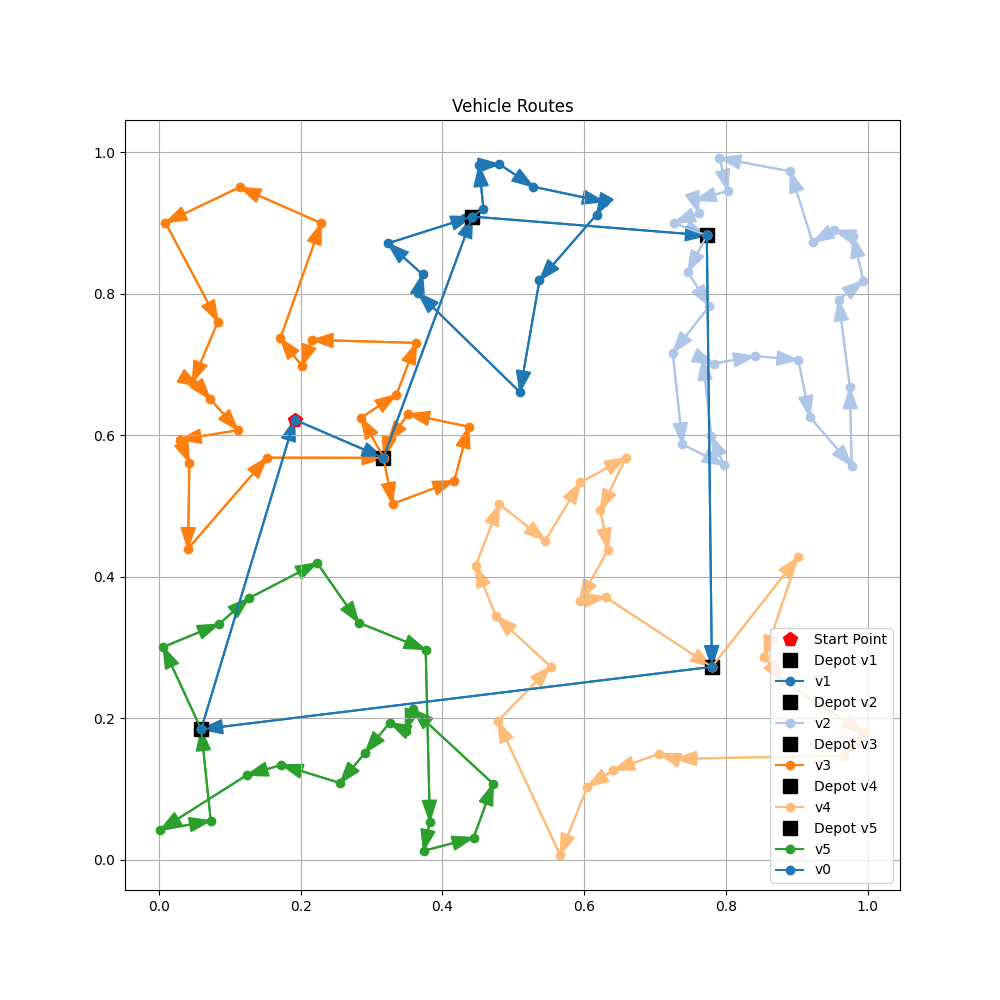
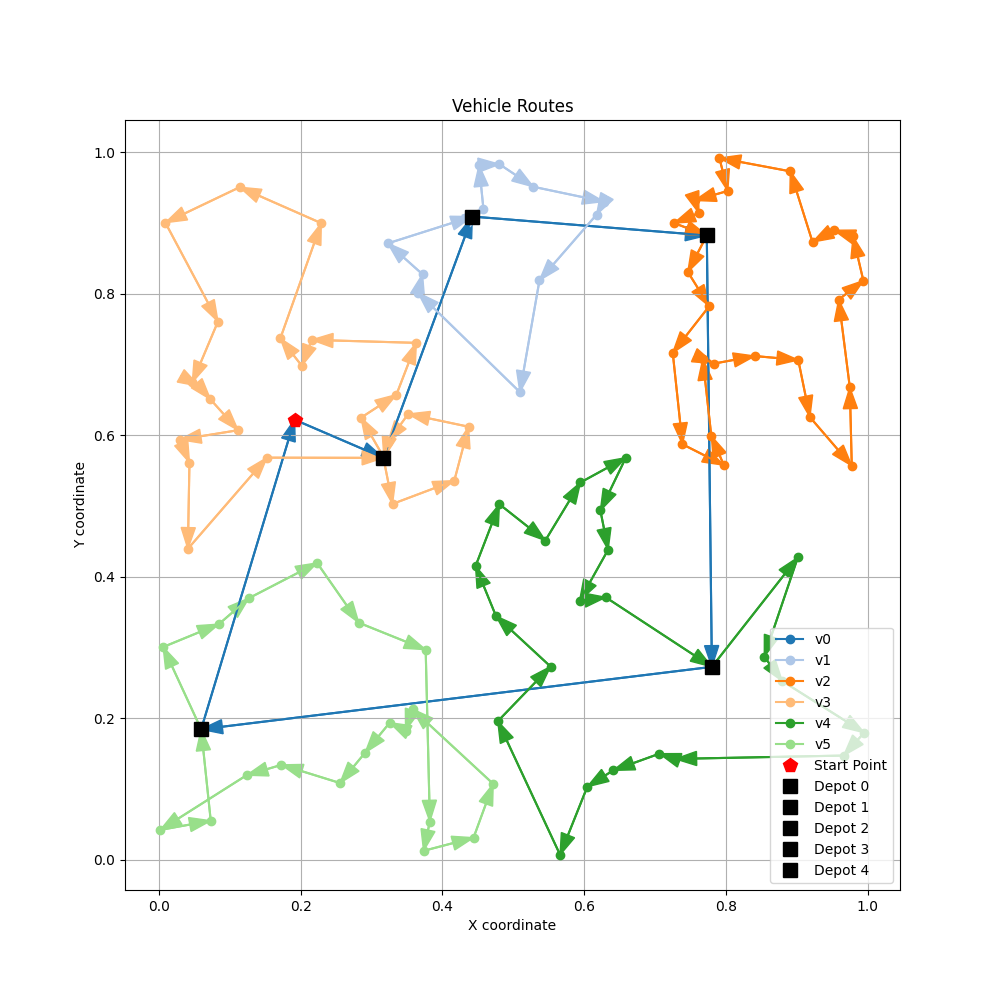
add one settings demo

diff --git a/scripts/demo.py b/scripts/demo.py
@@ -1,0 +1,154 @@
+# import debugpy; debugpy.connect(('10.1.114.56', 5678))
+
+import numpy as np
+from config import *
+from method import (
+    kmeans, 
+    euclidean_distance, 
+    TSPMethod,
+    solve
+)
+
+method = TSPMethod.SIMULATED_ANNEALING
+
+# generate random data
+np.random.seed(1234)
+dataset_size = 10000
+tsp_size = 300
+data = np.random.uniform(size=(dataset_size, tsp_size, 2)).astype(np.float32)
+
+loc = data[0]
+loc = loc[:n] # we only consider the first n nodes
+
+# for UAVs
+poi_idxs = np.array(C)
+bus_stops_idxs = np.array(D)
+
+# get each poi centroid for UAVs
+poi_locs = loc[poi_idxs]
+centroids_uav, code_poi = kmeans(poi_locs, n_UAVs) # (n_UAVs, 2), (n_poi,)
+
+# get UAVs starting location(the nearest bus stop)
+bus_stops_locs = loc[bus_stops_idxs]
+centorid_depot_distance = euclidean_distance(centroids_uav, bus_stops_locs) # (n_UAVs, n_depots)
+uav_selected_idxs = np.argmin(centorid_depot_distance, axis=1) # (n_UAVs,)
+uav_start_idxs = bus_stops_idxs[uav_selected_idxs] # (n_UAVs,)
+
+# get n_UAVs sub dataset
+uav_poi = {}
+for i in range(n_UAVs):
+    uav_poi[uav_names[i]] = {
+        'start_idxs': uav_start_idxs[i],
+        'poi_idxs': list(poi_idxs[code_poi == i])
+    }
+
+# get UAV routes
+for i in range(n_UAVs):
+    start_idxs = uav_poi[uav_names[i]]['start_idxs']
+    poi_idxs = uav_poi[uav_names[i]]['poi_idxs']
+    locs_idxs = [start_idxs] + poi_idxs
+    locs_idxs = np.array(locs_idxs)
+    locs = loc[locs_idxs]
+    print(locs.shape)
+    dist_matrix = euclidean_distance(locs, locs)
+    route = solve(dist_matrix, method)
+    uav_poi[uav_names[i]]['route'] = list(locs_idxs[route])
+
+print(uav_poi)
+
+# get UGV routes
+# we have uav_start_idxs as bus stops
+# and n_UGVs UGV must start from S
+uav_start_locs = loc[uav_start_idxs]
+centorids_ugv, code_uav = kmeans(uav_start_locs, n_UGVs) # (n_UGVs, 2), (n_UAVs,)
+
+ugv_depot = {}
+for i in range(n_UGVs):
+    ugv_depot[ugv_names[i]] = {
+        'start_idxs': S,
+        'depot_idxs': list(uav_start_idxs[code_uav == i])
+    }
+
+# get UGV routes
+for i in range(n_UGVs):
+    start_idxs = ugv_depot[ugv_names[i]]['start_idxs']
+    depot_idxs = ugv_depot[ugv_names[i]]['depot_idxs']
+    locs_idxs = [start_idxs] + depot_idxs
+    locs_idxs = np.array(locs_idxs)
+    locs = loc[locs_idxs]
+    print(locs.shape)
+    
+    dist_matrix = euclidean_distance(locs, locs)
+    route = solve(dist_matrix, method)
+    ugv_depot[ugv_names[i]]['route'] = list(locs_idxs[route])
+
+print(ugv_depot)
+
+
+
+
+
+# plot
+import matplotlib
+import matplotlib.pyplot as plt
+plt.figure(figsize=(10, 10))
+colors = matplotlib.colormaps['tab20']
+plt.plot(loc[0][0], loc[0][1], 'rp', markersize=10, label='Start Point')
+for i in range(n_UAVs):
+    vehicle_name = uav_names[i]
+    start_idxs = uav_poi[vehicle_name]['start_idxs']
+    start_locs = loc[start_idxs]
+    route = uav_poi[uav_names[i]]['route']
+    route_locs = loc[route]
+    # Bus stops
+    plt.plot(
+        start_locs[0],
+        start_locs[1],
+        'ks', 
+        markersize=10, 
+        label=f'Depot {uav_names[i]}'
+    )
+    plt.plot(
+        route_locs[:, 0], route_locs[:, 1], 
+        marker='o', color=colors(i), 
+        label=f'{vehicle_name}'
+    )
+    for j in range(len(route_locs) - 1):
+        plt.arrow(
+            route_locs[j, 0], route_locs[j, 1],
+            route_locs[j+1, 0] - route_locs[j, 0], 
+            route_locs[j+1, 1] - route_locs[j, 1],
+            head_width=0.02, 
+            length_includes_head=True, 
+            color=colors(i)
+        )
+for i in range(n_UGVs):
+    vehicle_name = ugv_names[i]
+    start_idxs = ugv_depot[vehicle_name]['start_idxs']
+    start_locs = loc[start_idxs]
+    route = ugv_depot[vehicle_name]['route']
+    route_locs = loc[route]
+    
+    plt.plot(
+        route_locs[:, 0], route_locs[:, 1], 
+        marker='o', color=colors(i), 
+        label=f'{vehicle_name}'
+    )
+    for j in range(len(route_locs) - 1):
+        plt.arrow(
+            route_locs[j, 0], route_locs[j, 1],
+            route_locs[j+1, 0] - route_locs[j, 0], 
+            route_locs[j+1, 1] - route_locs[j, 1],
+            head_width=0.02, 
+            length_includes_head=True, 
+            color=colors(i)
+        )
+
+plt.title("Vehicle Routes")
+
+plt.grid()
+plt.legend()
+filename = f'images/2EVRP-{method.phrase}-{n_poi}user-{n_depots}busstop-{n_UGVs}UGVs-{n_UAVs}UAVs.png'
+plt.savefig(filename)
+print(f'Image saved to {filename}')
+

diff --git a/demo.py b/demo.py
@@ -9,7 +9,8 @@ from method import (
     solve
 )
 
-method = TSPMethod.SIMULATED_ANNEALING
+method = TSPMethod.GENETIC_ALGORITHM
+filename = f'images/2EVRP-{method.phrase}-{n_poi}user-{n_depots}busstop-{n_UGVs}UGVs-{n_UAVs}UAVs.png'
 
 # generate random data
 np.random.seed(1234)
@@ -39,7 +40,7 @@ uav_poi = {}
 for i in range(n_UAVs):
     uav_poi[uav_names[i]] = {
         'start_idxs': uav_start_idxs[i],
-        'poi_idxs': list(poi_idxs[code_poi == i])
+        'poi_idxs': poi_idxs[code_poi == i].tolist()
     }
 
 # get UAV routes
@@ -52,9 +53,7 @@ for i in range(n_UAVs):
     print(locs.shape)
     dist_matrix = euclidean_distance(locs, locs)
     route = solve(dist_matrix, method)
-    uav_poi[uav_names[i]]['route'] = list(locs_idxs[route])
-
-print(uav_poi)
+    uav_poi[uav_names[i]]['route'] = locs_idxs[route].tolist()
 
 # get UGV routes
 # we have uav_start_idxs as bus stops
@@ -66,7 +65,7 @@ ugv_depot = {}
 for i in range(n_UGVs):
     ugv_depot[ugv_names[i]] = {
         'start_idxs': S,
-        'depot_idxs': list(uav_start_idxs[code_uav == i])
+        'depot_idxs': uav_start_idxs[code_uav == i].tolist()
     }
 
 # get UGV routes
@@ -80,75 +79,20 @@ for i in range(n_UGVs):
     
     dist_matrix = euclidean_distance(locs, locs)
     route = solve(dist_matrix, method)
-    ugv_depot[ugv_names[i]]['route'] = list(locs_idxs[route])
+    ugv_depot[ugv_names[i]]['route'] = locs_idxs[route].tolist()
 
-print(ugv_depot)
+vehicle_routes = {}
+for vehicle, info in ugv_depot.items():
+    vehicle_routes[vehicle] = info['route']
+for vehicle, info in uav_poi.items():
+    vehicle_routes[vehicle] = info['route']
 
+print(vehicle_routes)
 
-
-
-
-# plot
-import matplotlib
-import matplotlib.pyplot as plt
-plt.figure(figsize=(10, 10))
-colors = matplotlib.colormaps['tab20']
-plt.plot(loc[0][0], loc[0][1], 'rp', markersize=10, label='Start Point')
-for i in range(n_UAVs):
-    vehicle_name = uav_names[i]
-    start_idxs = uav_poi[vehicle_name]['start_idxs']
-    start_locs = loc[start_idxs]
-    route = uav_poi[uav_names[i]]['route']
-    route_locs = loc[route]
-    # Bus stops
-    plt.plot(
-        start_locs[0],
-        start_locs[1],
-        'ks', 
-        markersize=10, 
-        label=f'Depot {uav_names[i]}'
-    )
-    plt.plot(
-        route_locs[:, 0], route_locs[:, 1], 
-        marker='o', color=colors(i), 
-        label=f'{vehicle_name}'
-    )
-    for j in range(len(route_locs) - 1):
-        plt.arrow(
-            route_locs[j, 0], route_locs[j, 1],
-            route_locs[j+1, 0] - route_locs[j, 0], 
-            route_locs[j+1, 1] - route_locs[j, 1],
-            head_width=0.02, 
-            length_includes_head=True, 
-            color=colors(i)
-        )
-for i in range(n_UGVs):
-    vehicle_name = ugv_names[i]
-    start_idxs = ugv_depot[vehicle_name]['start_idxs']
-    start_locs = loc[start_idxs]
-    route = ugv_depot[vehicle_name]['route']
-    route_locs = loc[route]
-    
-    plt.plot(
-        route_locs[:, 0], route_locs[:, 1], 
-        marker='o', color=colors(i), 
-        label=f'{vehicle_name}'
-    )
-    for j in range(len(route_locs) - 1):
-        plt.arrow(
-            route_locs[j, 0], route_locs[j, 1],
-            route_locs[j+1, 0] - route_locs[j, 0], 
-            route_locs[j+1, 1] - route_locs[j, 1],
-            head_width=0.02, 
-            length_includes_head=True, 
-            color=colors(i)
-        )
-
-plt.title("Vehicle Routes")
-
-plt.grid()
-plt.legend()
-filename = f'images/2EVRP-{method.phrase}-{n_poi}user-{n_depots}busstop-{n_UGVs}UGVs-{n_UAVs}UAVs.png'
-plt.savefig(filename)
-print(f'Image saved to {filename}')
+uav_start_idxs = uav_start_idxs.tolist()
+from plot import plot_vehicle_routes
+plot_vehicle_routes(loc, vehicle_routes, uav_start_idxs, filename)
+from utils import calc_avg_node_visit_time_multi_car
+avg_visit_time = calc_avg_node_visit_time_multi_car(loc, vehicle_routes)
+print(f"Average node visit time: {avg_visit_time}")
 

diff --git a/plot.py b/plot.py
@@ -1,11 +1,12 @@
 import numpy as np
 import matplotlib
 import matplotlib.pyplot as plt
+from typing import List
 
 def plot_vehicle_routes(
         loc: np.ndarray, 
         routes: dict, 
-        n_depots: int, 
+        uav_start_idxs: List[int], 
         filename: str
     ):
 
@@ -35,14 +36,22 @@ def plot_vehicle_routes(
     # Start point
     plt.plot(loc[0][0], loc[0][1], 'rp', markersize=10, label='Start Point')
     
+    # this will plot all the bus stops
     # Bus stops
-    for depot in range(1, n_depots):
+    # for depot in range(1, n_depots+1):
+    #     plt.plot(
+    #         loc[depot][0], loc[depot][1], 'ks', 
+    #         markersize=10, label=f'Depot {depot}'
+    #     )
+    
+    for i, depot_idx in enumerate(uav_start_idxs):
         plt.plot(
-            loc[depot][0], loc[depot][1], 'ks', 
-            markersize=10, label=f'Depot {depot}'
+            loc[depot_idx][0], loc[depot_idx][1], 'ks', 
+            markersize=10, label=f'Depot {i}'
         )
 
-    plt.legend()
+    plt.legend() # hope this place to the outside of the plot
+    # plt.legend(loc='upper left', bbox_to_anchor=(1, 1))
     plt.title("Vehicle Routes")
     plt.xlabel("X coordinate")
     plt.ylabel("Y coordinate")
